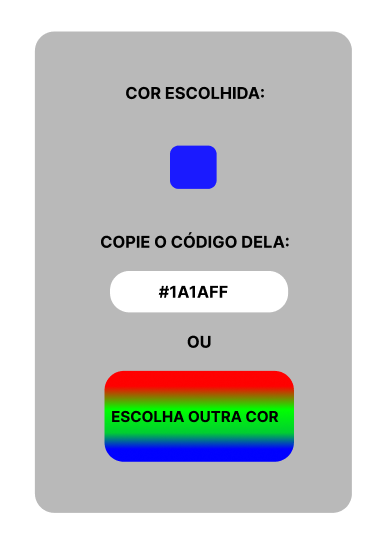
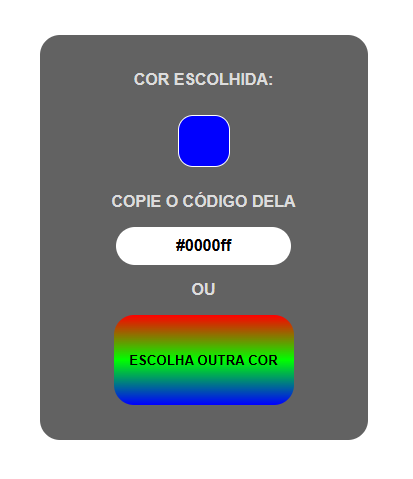
alterações na responsividade e nas imagens do tutorial

diff --git a/src/js/colors.js b/src/js/colors.js
@@ -10,7 +10,9 @@ const btnBrownColor = document.getElementsByClassName("btn-brown");
 const btnBlackColor = document.getElementsByClassName("btn-black");
 
 
+const title = document.getElementById("title");
 const body = document.getElementById("body");
+const header = document.getElementById("header");
 const titleChooseColorPage = document.getElementById("title-choose-colors-page");
 const chooseColorPage = document.getElementById("choose-colors-page");
 const boxColorCode = document.getElementById("box-color-code");
@@ -52,7 +54,10 @@ let blackColors = {
 
 
 btnChooseOtherColor.addEventListener("click", () => {
+    title.textContent = "Obter Cor - Escolher Cor";
     body.style.height = "100%";
+    header.style.marginTop = "30px";
+    header.style.marginBottom = "30px";
     titleChooseColorPage.style.display = "block";
     chooseColorPage.style.display = "block";
     boxChoosedColor.style.display = "none";
@@ -60,7 +65,10 @@ btnChooseOtherColor.addEventListener("click", () => {
 
 
 function openCodesPage() {
+    title.textContent = "Obter Cor - Cor Escolhida";
     body.style.height = "100vh";
+    header.style.marginTop = "0";
+    header.style.marginBottom = "0";
     titleChooseColorPage.style.display = "none";
     chooseColorPage.style.display = "none";
     boxChoosedColor.style.display = "block";

diff --git a/src/css/index.css b/src/css/index.css
@@ -1,13 +1,10 @@
 body{
-    height: 100vh;
-}
-
-body, html{
     display: flex;
     flex-direction: column;
     justify-content: center;
     font-family: sans-serif;
     font-weight: bold;
+    height: 100vh;
     margin: 0;
     padding: 0;
 }
@@ -16,13 +13,11 @@ header{
     display: flex;
     flex-direction: column;
     align-items: center;
-    margin-top: 5em;
 }
 
 main{
     display: flex;
-    justify-content: center;
-    flex: 1;
+    justify-content: center; 
 }
 
 button{

diff --git a/colors.html b/colors.html
@@ -7,11 +7,11 @@
     <link rel="stylesheet" href="src/css/colors.css">
     <link rel="stylesheet" href="src/css/responsive.css">
     <link rel="icon" href="src/images/icon.png">
-    <title>Obter Cor - Escolher Cor</title>
+    <title id="title">Obter Cor - Escolher Cor</title>
 </head>
 
 <body id="body">
-    <header>
+    <header id="header">
         <h1 id="title-choose-colors-page">ESCOLHA UMA COR</h1>
     </header>
 

diff --git a/src/css/colors.css b/src/css/colors.css
@@ -389,8 +389,6 @@ button{
     background-color: #626262;
     color: #dCdcdc;
     width: 18em;
-    margin-top: 30px;
-    margin-bottom: 30px;
     display: none;
 }
 
@@ -408,7 +406,7 @@ button{
     background-image: linear-gradient(#ff0000, #00ff00, #0000ff);
     width: 180px;
     height: 90px;
-    margin-bottom: 20px;
+    margin-bottom: 15px;
     font-weight: bold;
 }
 
